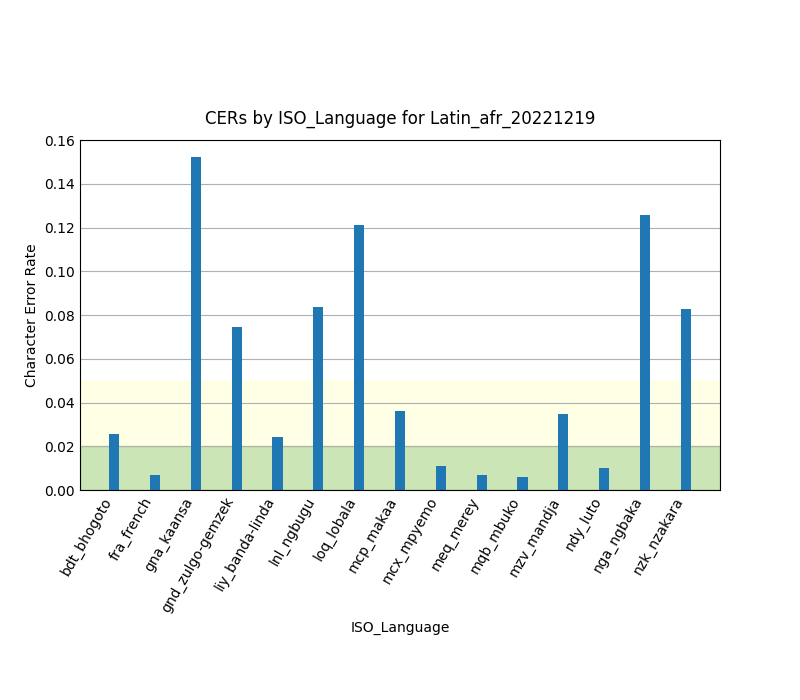
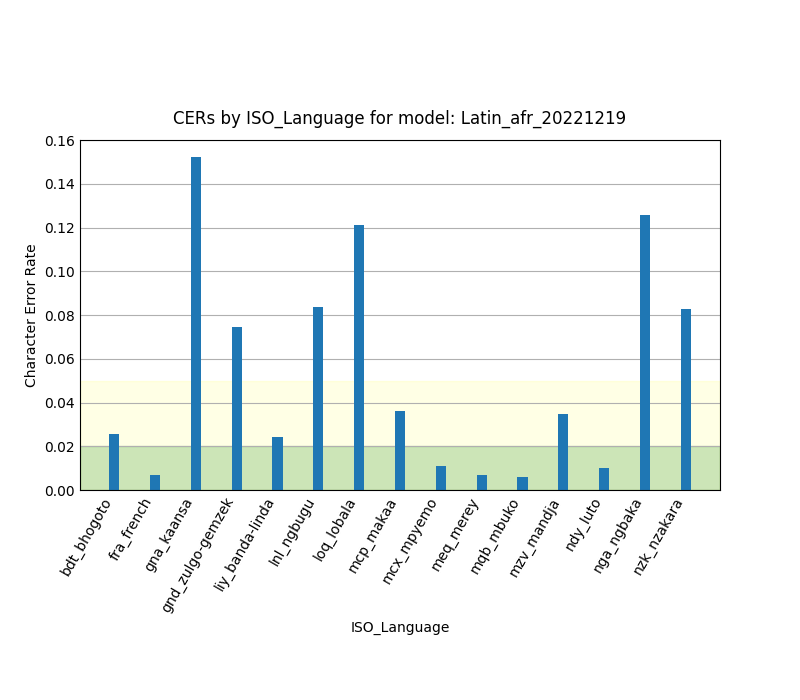
add chart for Latin model performance

Changed region(s): [[0.2188, 0.15, 0.7812, 0.18]]

diff --git a/scripts/show_chart.py b/scripts/show_chart.py
@@ -199,8 +199,8 @@ def main():
         if sys.argv[1] == '3d':
             data_slices = build_3d_slices(model_data)
             plot_bar3d(data_slices)
-        elif sys.argv[1] == 'lang':
-            # Show summary chart of CER by ISO_Language with given Model Name.
+        elif sys.argv[1] == 'best':
+            # Show best model summary chart of CER by ISO_Language.
 
             # Determine best_model and its CER.
             best_model = [None, None]
@@ -215,7 +215,6 @@ def main():
             for m in model_data:
                 if m.name == best_model[0]:
                     for l in m.lang_data:
-                        # print(f"{l.name}: {l.cer_sum}; {l.cer_avg}")
                         cer_values.append(l.cer_avg)
                         lang_names_filtered.append(l.name)
                     break
@@ -228,7 +227,33 @@ def main():
             x = lang_names_filtered
             y = cer_values
             out_file = out_dir / 'best-model-perf-by-lang.png'
-            title = f"CERs by ISO_Language for {best_model[0]}"
+            title = f"CERs by ISO_Language for model: {best_model[0]}"
+            xlabel = "ISO_Language"
+            ylabel = "Character Error Rate"
+            plot_bar2d(x, y, out_file, title, xlabel, ylabel)
+        elif sys.argv[1] == 'model':
+            # Show summary chart of CER by ISO_Language for the given model.
+            model_name = sys.argv[2]
+
+            # List CER values and filtered ISO_Langs.
+            cer_values = []
+            lang_names_filtered = []
+            for m in model_data:
+                if m.name == model_name:
+                    for l in m.lang_data:
+                        cer_values.append(l.cer_avg)
+                        lang_names_filtered.append(l.name)
+                    break
+
+            # Print data table to stdout.
+            print(f"ISO_Language\tCER")
+            for l, c in zip(lang_names_filtered, cer_values):
+                print(f"{l}\t{c}")
+
+            x = lang_names_filtered
+            y = cer_values
+            out_file = out_dir / f"{model_name}-perf-by-lang.png"
+            title = f"CERs by ISO_Language for model: {model_name}"
             xlabel = "ISO_Language"
             ylabel = "Character Error Rate"
             plot_bar2d(x, y, out_file, title, xlabel, ylabel)

diff --git a/Testing.md b/Testing.md
@@ -6,6 +6,8 @@
 
 ![Best Model's Performance by ISO_Language](data/evaluation/best-model-perf-by-lang.png)
 
+![Latin Model's Performance by ISO_Language](data/evaluation/Latin-perf-by-lang.png)
+
 > - Chart data gathered from [data/evaluation/data.csv](data/evaluation/data.csv)
 > - data.csv populated from evalutation of files in [data/evaluation/\<iso_langname\>](data/evaluation).
 
